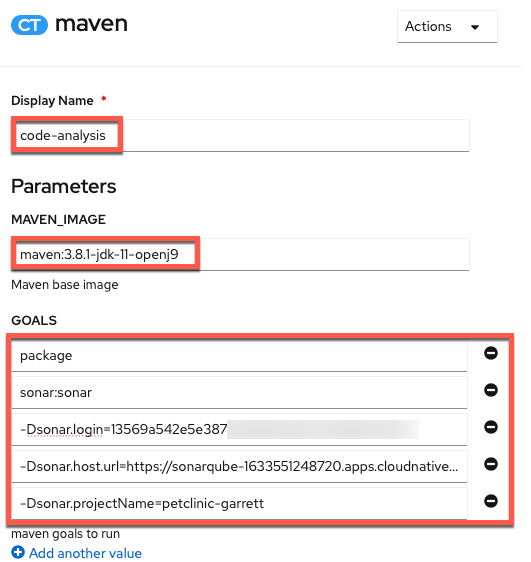
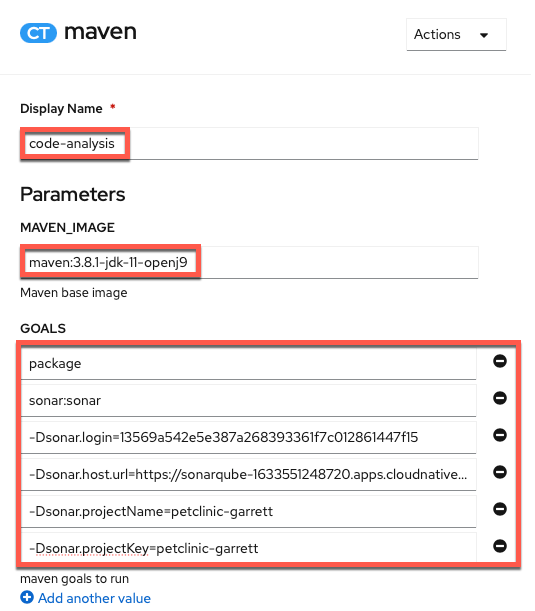
Updated SonarQube to use projectKey

Changed region(s): [[0.0, 0.1512, 0.9944, 0.9982], [0.0, 0.0, 0.2712, 0.0907], [0.7533, 0.0302, 0.9341, 0.0907]]

diff --git a/docs/devsecops/devsecops.md b/docs/devsecops/devsecops.md
@@ -95,7 +95,7 @@ Go back to your OpenShift console and go to your pipeline. Your pipeline should 
     !!! tip
         Once you add a specific task (i.e. `maven`), clicking on the oval of the task will enable you to edit its default values for your needs.
 
-2. Give the task the following parameters to do the code analysis with the proper maven goals set to do code scanning against our SonarQube server, <b>be careful to substitute the `-Dsonar.login` goal with the token that you generated in the previous step. Also be mindful to put your name in the value of the `Dsonar.projectName` goal.</b> 
+2. Give the task the following parameters to do the code analysis with the proper maven goals set to do code scanning against our SonarQube server, <b>be careful to substitute the `-Dsonar.login` goal with the token that you generated in the previous step. Also be mindful to put your name in the value of the `Dsonar.projectName` and ``Dsonar.projectKey` goals.</b> 
 
     ![codeanalysistask](../images/DevSecOps/codeanalysistask.png)
 
@@ -126,6 +126,9 @@ Go back to your OpenShift console and go to your pipeline. Your pipeline should 
     ``` 
     ``` bash
     -Dsonar.projectName=petclinic-<your-name>
+    ```
+    ``` bash
+    -Dsonar.projectKey=petclinic-<your-name>
     ```
 
     !!! caution
